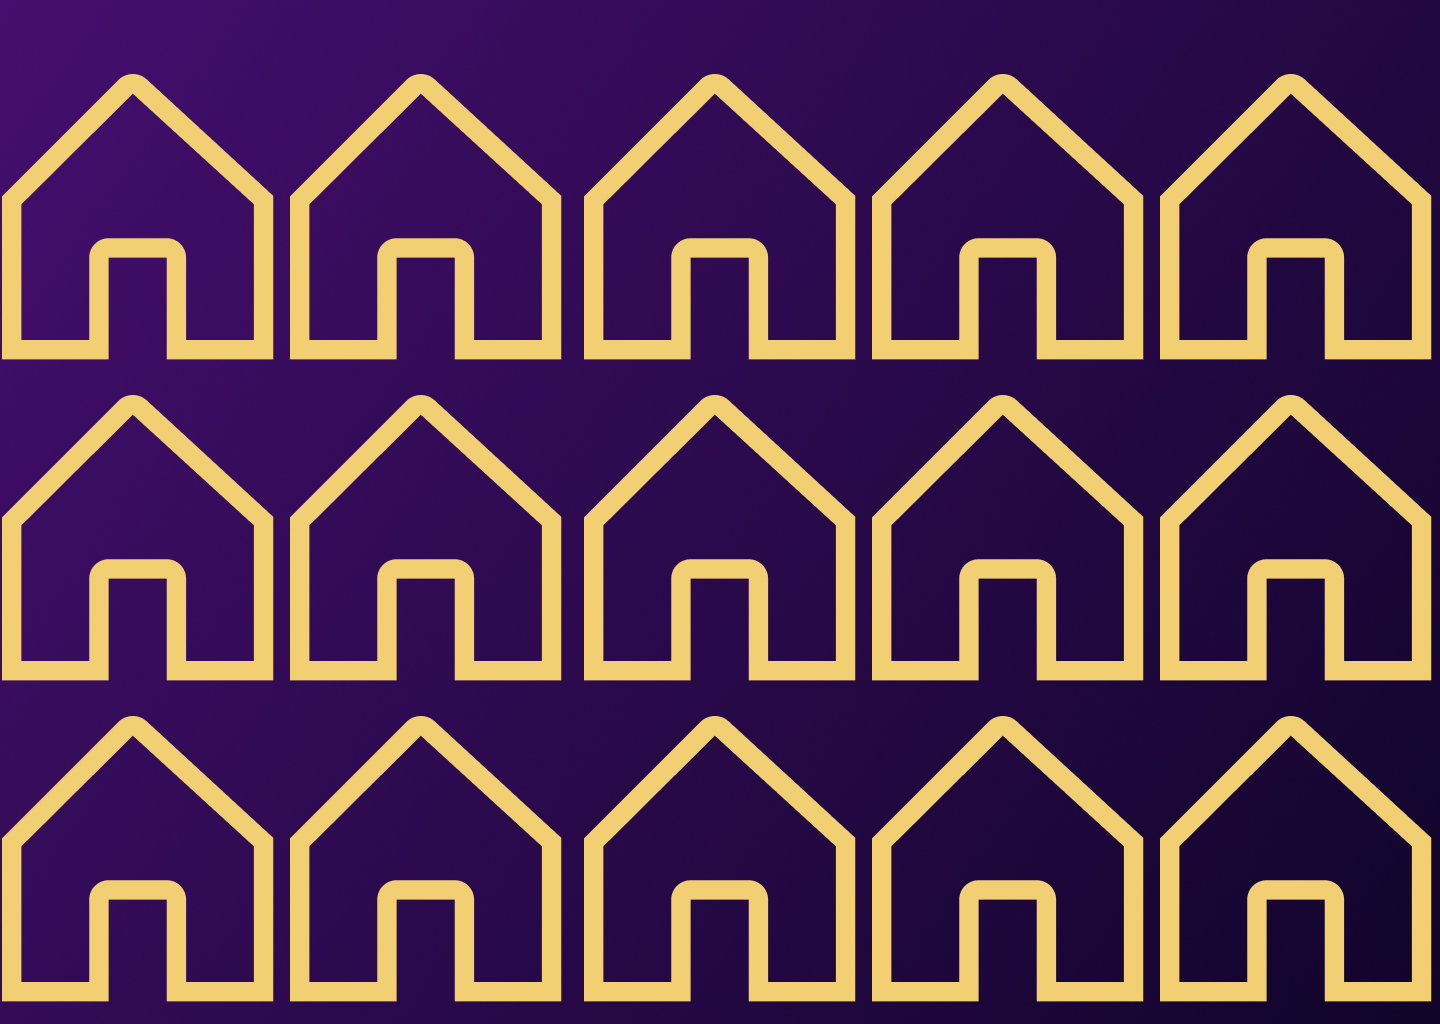
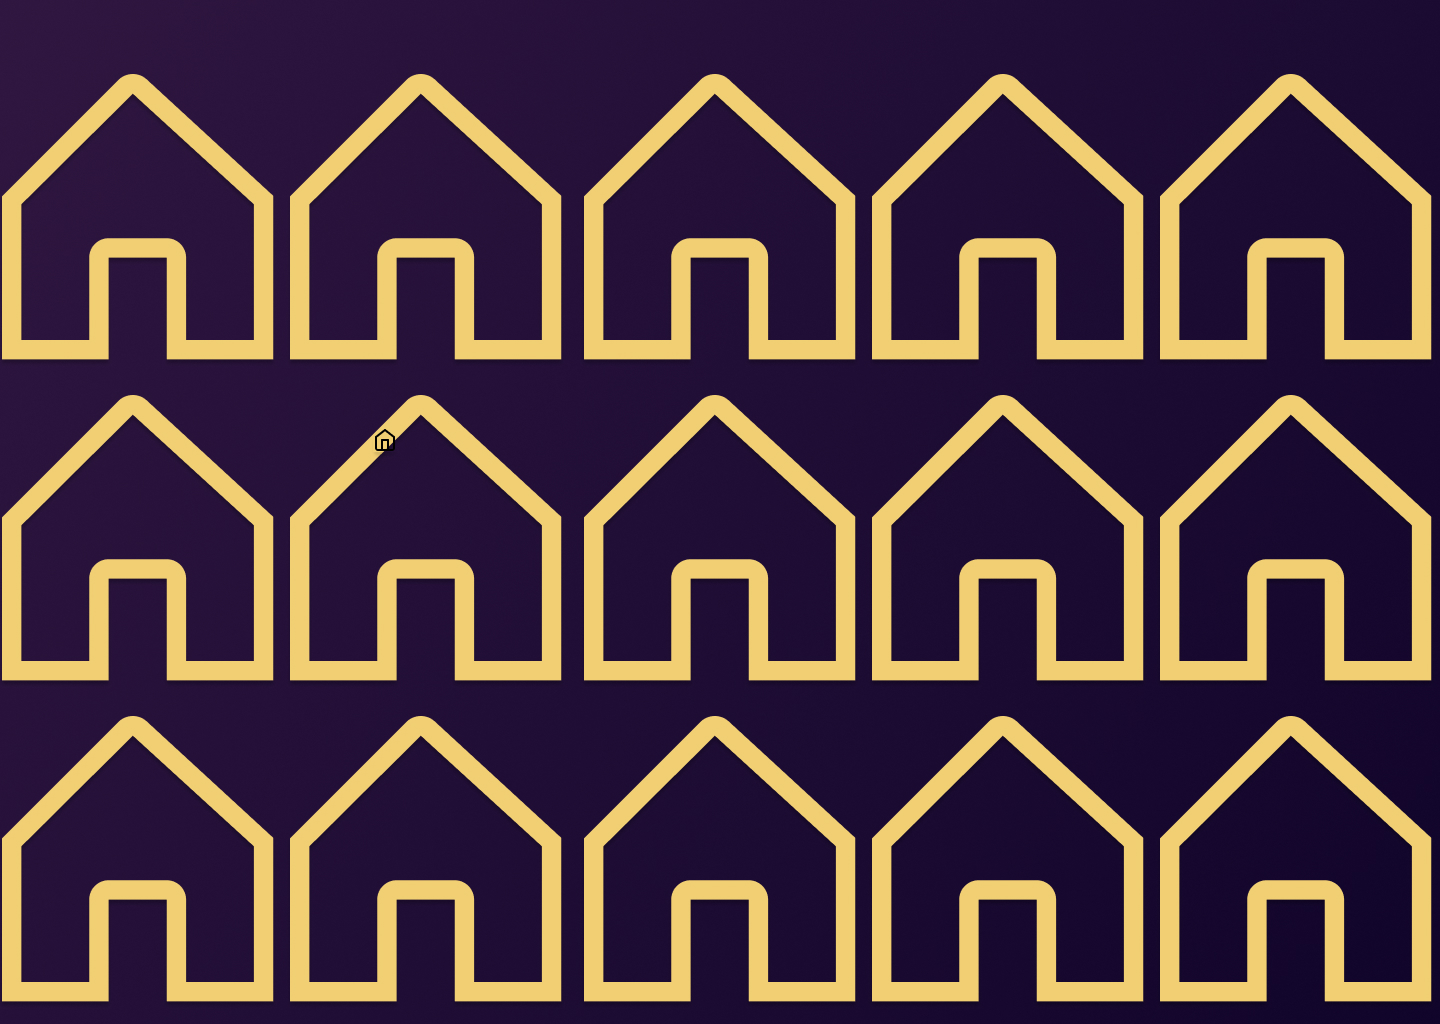
background gradient

diff --git a/output.css b/output.css
@@ -1858,6 +1858,20 @@ video {
   background-color: rgb(0 0 0 / 0.7);
 }
 
+.bg-gradient-to-b {
+  background-image: linear-gradient(to bottom, var(--tw-gradient-stops));
+}
+
+.from-violet-950 {
+  --tw-gradient-from: #2e1065 var(--tw-gradient-from-position);
+  --tw-gradient-to: rgb(46 16 101 / 0) var(--tw-gradient-to-position);
+  --tw-gradient-stops: var(--tw-gradient-from), var(--tw-gradient-to);
+}
+
+.to-fuchsia-950 {
+  --tw-gradient-to: #4a044e var(--tw-gradient-to-position);
+}
+
 .decoration-slice {
   -webkit-box-decoration-break: slice;
           box-decoration-break: slice;

diff --git a/index.html b/index.html
@@ -45,7 +45,7 @@
     }
   </style>
 </head>
-<body class="h-screen w-screen relative bg-violet-950">
+<body class="h-screen w-screen relative bg-gradient-to-b from-violet-950 to-fuchsia-950">
   <!-- Top-left Triangle -->
   <a href="home.html" class="triangle top-0 left-0 w-[20vw] h-[20vw] lg:w-[25vw] lg:h-[25vw] clip-triangle-tl" style="background-image: url('./img/house.jpg');"></a>
   <div class="tooltip" style="top: 10%; left: 25%;">Home</div>
